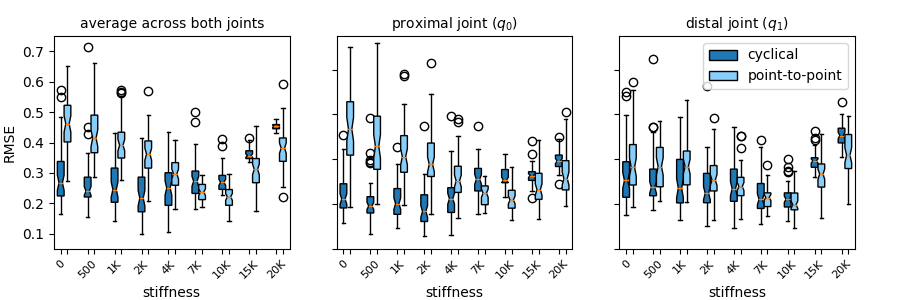
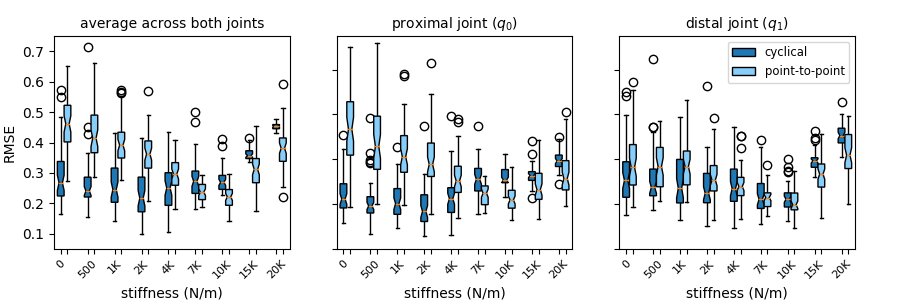
the data for experiment_4_C is now collected

diff --git a/experiment_4_pool_show_withMC.py b/experiment_4_pool_show_withMC.py
@@ -1,15 +1,14 @@
-import tensorflow as tf
 import json
 import numpy as np
 from scipy import signal, stats
 from matplotlib import pyplot as plt
 import pickle
 from warnings import simplefilter
-from stable_baselines.results_plotter import load_results, ts2xy
+import os
 
 stiffness_versions = 9
 RL_method = "PPO1"
-total_MC_runs = 16 # starts from 1
+total_MC_runs = 50 # starts from 1
 experiment_ID = "experiment_4_pool_with_MC_C"
 total_timesteps = 500000
 episode_timesteps = 1000
@@ -19,17 +18,72 @@ episode_rewards_all = np.zeros([total_MC_runs, stiffness_versions, total_episode
 
 for stiffness_value in range(stiffness_versions):
 	stiffness_value_str = "stiffness_{}".format(stiffness_value)
-	for mc_cntr in range(total_MC_runs-1,total_MC_runs):
+	for mc_cntr in range(total_MC_runs):
 		log_dir = "./logs/{}/MC_{}/{}/{}/".format(experiment_ID, mc_cntr, RL_method, stiffness_value_str)
 		jsonFile = open(log_dir+"monitor/openaigym.episode_batch.{}.Monitor_info.stats.json".format(0))
 		jsonString = jsonFile.read()
 		jsonData = json.loads(jsonString)
 		print("stiffness_value: ", stiffness_value, "mc_cntr: ", mc_cntr)
 		episode_rewards_all[mc_cntr, stiffness_value, :] = np.array(jsonData['episode_rewards'])
-episode_rewards_average = episode_rewards_all.mean(0)
+reward_to_displacement_coeficient  = .01
+episode_displacement_all = episode_rewards_all*reward_to_displacement_coeficient
+episode_displacement_average = episode_displacement_all.mean(0)
+episode_displacement_std = episode_displacement_all.std(0)
+final_displacement = np.zeros([total_MC_runs, stiffness_versions])
+pass_displacement_point = np.zeros([total_MC_runs ,stiffness_versions])
+displacement_point = 9
+fig, axes = plt.subplots(nrows=1, ncols=1, figsize=(4.5, 3))
+stiffness_values = ["0", "500", "1K", "2K", "4K", "7K", "10K", "15K", "20K"]
 
+## Figure 1
 for stiffness_value in range(stiffness_versions):
-	plt.plot(episode_rewards_average[stiffness_value,:])
-plt.legend(['0','500', '1K', '2K', '4K', '7K', '10K', '15K', '20K'])
-plt.show()
+	x0=range(total_episodes)
+	y0=episode_displacement_average[stiffness_value,:]
+	std0 = episode_displacement_std[stiffness_value,:]
+	plt.plot(x0, y0, alpha=.85)
+	plt.fill_between(x0, y0-std0/2, y0+std0/2, alpha=0.20)
+	final_displacement[:,stiffness_value] = episode_displacement_all[:,stiffness_value,-1]
+	for mc_cntr in range(total_MC_runs):
+		pass_displacement_point[mc_cntr, stiffness_value] = np.min(np.where(episode_displacement_all[mc_cntr, stiffness_value,:]>=displacement_point))
 
+plt.legend(stiffness_values, fontsize='x-small')
+plt.xlabel('Episode #')
+plt.ylabel('Displacement (m)')
+plt.yticks(rotation=45, fontsize=8)
+
+os.makedirs("./results/{}".format(experiment_ID), exist_ok=True)
+fig.subplots_adjust(top=.98, bottom=.15, left=.13, right=.95, wspace=.33)
+fig.savefig('./results/{}/PPO_results_1.png'.format(experiment_ID))
+## Figure 2
+ncols = 2
+nrows = 1
+fig, axes = plt.subplots(nrows=1, ncols=ncols, figsize=(4.5, 3))
+x1=range(stiffness_versions)
+y1 = pass_displacement_point.mean(0)
+std1 = pass_displacement_point.std(0)
+axes[0].plot(x1, y1, 'o-')
+axes[0].fill_between(x1, y1-std1/2, y1+std1/2, alpha=0.25, edgecolor='C9', facecolor='C9')
+
+x2=range(stiffness_versions)
+y2 = final_displacement.mean(0)
+std2 = final_displacement.std(0)
+axes[1].plot(x2, y2, 'o-')
+axes[1].fill_between(x2, y2-std2/2, y2+std2/2, alpha=0.25, edgecolor='C9', facecolor='C9')
+xlabels = ['Stiffness (N/M)', 'Stiffness (N/M)']
+ylabels = ['Episode #', 'Displacement (m)']
+for ii in range(ncols):
+	plt.sca(axes[ii])
+	plt.xlabel(xlabels[ii], fontsize=9)
+	plt.xticks(x1, stiffness_values, rotation=45, fontsize=8)
+	plt.ylabel(ylabels[ii], fontsize=9)
+	plt.yticks(rotation=45, fontsize=8)
+fig.subplots_adjust(top=.95, bottom=.17, left=.11, right=.95, wspace=.33)
+fig.savefig('./results/{}/PPO_results_2.png'.format(experiment_ID))
+# p0 = axes[1].boxplot(
+# 	[errors_all_cyc_A_A.mean(0)[0], errors_all_cyc_A_B.mean(0)[0], errors_all_cyc_B_B.mean(0)[0]],
+# 	notch=True,
+# 	patch_artist=True)
+plt.show() 
+
+
+#import pdb; pdb.set_trace()

diff --git a/experiment_1_showresults.py b/experiment_1_showresults.py
@@ -63,7 +63,7 @@ p1_0 = axes[0].boxplot(
 	patch_artist=True)
 axes[0].set_title(r'average across both joints',fontsize=10)
 axes[0].set_ylim(y_lim_p0)
-axes[0].set_xlabel('stiffness')
+axes[0].set_xlabel('stiffness (N/m)')
 axes[0].set_xticklabels(stiffness_values, rotation=45, fontsize=8)
 axes[0].set_ylabel('RMSE')
 
@@ -75,7 +75,7 @@ p1_1 = axes[1].boxplot(
 axes[1].set_title('proximal joint ($q_0$)', fontsize=10)
 axes[1].set_ylim(y_lim)
 axes[1].set_yticklabels([])
-axes[1].set_xlabel('stiffness')
+axes[1].set_xlabel('stiffness (N/m)')
 axes[1].set_xticklabels(stiffness_values, rotation=45, fontsize=8)
 
 p1_2 = axes[2].boxplot(
@@ -86,7 +86,7 @@ p1_2 = axes[2].boxplot(
 axes[2].set_title('distal joint ($q_1$)', fontsize=10)
 axes[2].set_ylim(y_lim)
 axes[2].set_yticklabels([])
-axes[2].set_xlabel('stiffness')
+axes[2].set_xlabel('stiffness (N/m)')
 axes[2].set_xticklabels(stiffness_values, rotation=45, fontsize=8)
 
 # changing the box colors
@@ -94,7 +94,7 @@ for bplot in (p1_0, p1_1, p1_2):
     for patch in bplot['boxes']:
         patch.set_facecolor('lightskyblue')
 
-axes[2].legend([p0_2["boxes"][0], p1_2["boxes"][0]], ['cyclical','point-to-point'], loc='upper right')#bbox_to_anchor=(1.6, 1.02)
+axes[2].legend([p0_2["boxes"][0], p1_2["boxes"][0]], ['cyclical','point-to-point'], loc='upper right', fontsize='small')#bbox_to_anchor=(1.6, 1.02)
 fig.subplots_adjust(left=.06, right=.95, bottom=.17)
 fig.savefig('./results/{}/error_vs_stiffness.png'.format(experiment_ID))
 # p-value

diff --git a/experiment_4_pool_show_withMC_singleMCplot.py b/experiment_4_pool_show_withMC_singleMCplot.py
@@ -1,0 +1,36 @@
+import tensorflow as tf
+import json
+import numpy as np
+from scipy import signal, stats
+from matplotlib import pyplot as plt
+import pickle
+from warnings import simplefilter
+from stable_baselines.results_plotter import load_results, ts2xy
+
+stiffness_versions = 9
+RL_method = "PPO1"
+total_MC_runs = 50 # starts from 1
+experiment_ID = "experiment_4_pool_with_MC_C"
+total_timesteps = 500000
+episode_timesteps = 1000
+total_episodes = int(total_timesteps/episode_timesteps)
+
+episode_rewards_all = np.zeros([total_MC_runs, stiffness_versions, total_episodes])
+
+for stiffness_value in range(stiffness_versions):
+	stiffness_value_str = "stiffness_{}".format(stiffness_value)
+	for mc_cntr in range(total_MC_runs-1,total_MC_runs):
+		log_dir = "./logs/{}/MC_{}/{}/{}/".format(experiment_ID, mc_cntr, RL_method, stiffness_value_str)
+		jsonFile = open(log_dir+"monitor/openaigym.episode_batch.{}.Monitor_info.stats.json".format(0))
+		jsonString = jsonFile.read()
+		jsonData = json.loads(jsonString)
+		print("stiffness_value: ", stiffness_value, "mc_cntr: ", mc_cntr)
+		episode_rewards_all[mc_cntr, stiffness_value, :] = np.array(jsonData['episode_rewards'])
+episode_rewards_average = episode_rewards_all.mean(0)
+
+for stiffness_value in range(stiffness_versions):
+	plt.plot(episode_rewards_average[stiffness_value,:])
+plt.legend(['0','500', '1K', '2K', '4K', '7K', '10K', '15K', '20K'])
+plt.show()
+
+#import pdb; pdb.set_trace()

diff --git a/test.py b/test.py
@@ -1,0 +1,36 @@
+import tensorflow as tf
+import json
+import numpy as np
+from scipy import signal, stats
+from matplotlib import pyplot as plt
+import pickle
+from warnings import simplefilter
+from stable_baselines.results_plotter import load_results, ts2xy
+
+stiffness_versions = 9
+RL_method = "PPO1"
+total_MC_runs = 42 # starts from 1
+experiment_ID = "experiment_4_pool_with_MC_C"
+total_timesteps = 500000
+episode_timesteps = 1000
+total_episodes = int(total_timesteps/episode_timesteps)
+
+episode_rewards_all = np.zeros([total_MC_runs, stiffness_versions, total_episodes])
+
+for stiffness_value in range(stiffness_versions):
+	stiffness_value_str = "stiffness_{}".format(stiffness_value)
+	for mc_cntr in range(total_MC_runs-1,total_MC_runs):
+		log_dir = "./logs/{}/MC_{}/{}/{}/".format(experiment_ID, mc_cntr, RL_method, stiffness_value_str)
+		jsonFile = open(log_dir+"monitor/openaigym.episode_batch.{}.Monitor_info.stats.json".format(0))
+		jsonString = jsonFile.read()
+		jsonData = json.loads(jsonString)
+		print("stiffness_value: ", stiffness_value, "mc_cntr: ", mc_cntr)
+		episode_rewards_all[mc_cntr, stiffness_value, :] = np.array(jsonData['episode_rewards'])
+episode_rewards_average = episode_rewards_all.mean(0)
+
+for stiffness_value in range(stiffness_versions):
+	plt.plot(episode_rewards_average[stiffness_value,:])
+plt.legend(['0','500', '1K', '2K', '4K', '7K', '10K', '15K', '20K'])
+plt.show()
+
+#import pdb; pdb.set_trace()

diff --git a/experiment_4_pool_train_withMC.py b/experiment_4_pool_train_withMC.py
@@ -14,11 +14,11 @@ import random
 def ppo1_nmileg_pool(stiffness_value):
 	RL_method = "PPO1"
 	#total_MC_runs = 50
-	experiment_ID = "experiment_4_pool_with_MC_C/"
+	experiment_ID = "experiment_4_pool_with_MC_C_/"
 	save_name_extension = RL_method
 	total_timesteps = 500000
 	stiffness_value_str = "stiffness_{}".format(stiffness_value)
-	current_mc_run_num = 15 # starts from 0
+	current_mc_run_num = 49 # starts from 0
 	for mc_cntr in range(current_mc_run_num, current_mc_run_num+1):
 		log_dir = "./logs/{}/MC_{}/{}/{}/".format(experiment_ID, mc_cntr, RL_method, stiffness_value_str)
 		# defining the environments
